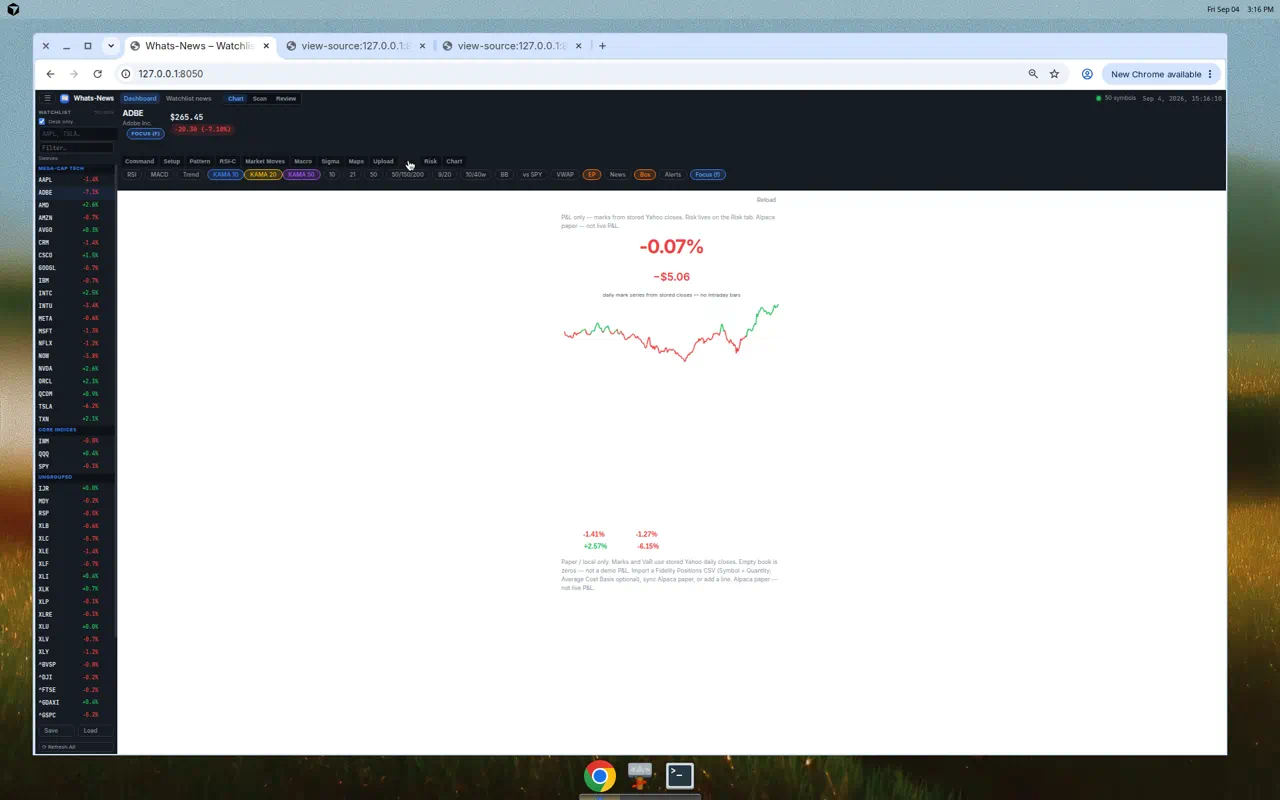
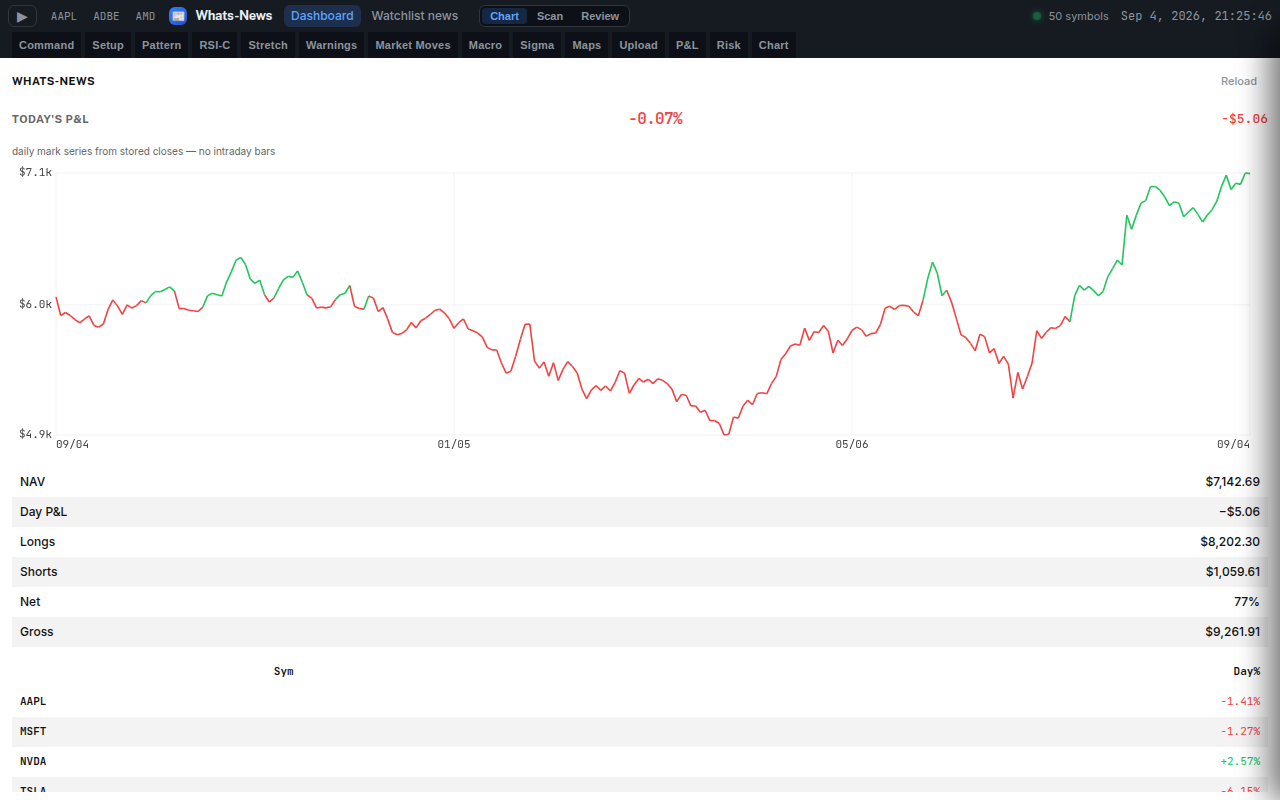
Fill P&L leftover with chart; recapture density shots
Grow the daily-mark canvas to eat leftover height when the tape is
short. Y ticks use stored NAVs nearest min/mid/max. Open Risk
portfolio/perf so the same dead-air pattern is packed with real marks.

diff --git a/scripts/paper_book.js b/scripts/paper_book.js
@@ -67,6 +67,27 @@ function _pnlTickIdx(n) {
     return [...new Set([0, Math.round((n - 1) / 3), Math.round(2 * (n - 1) / 3), n - 1])].sort((a, b) => a - b);
 }
 
+function _pnlYTickIdx(vals) {
+    if (!vals.length) return [];
+    let minI = 0;
+    let maxI = 0;
+    for (let i = 1; i < vals.length; i++) {
+        if (vals[i] < vals[minI]) minI = i;
+        if (vals[i] > vals[maxI]) maxI = i;
+    }
+    const midTarget = (vals[minI] + vals[maxI]) / 2;
+    let midI = 0;
+    let midDist = Math.abs(vals[0] - midTarget);
+    for (let i = 1; i < vals.length; i++) {
+        const d = Math.abs(vals[i] - midTarget);
+        if (d < midDist) {
+            midDist = d;
+            midI = i;
+        }
+    }
+    return [...new Set([maxI, midI, minI])];
+}
+
 function _pnlAxisDate(d) {
     const s = String(d || '');
     const m = s.match(/^(\d{4})-(\d{2})-(\d{2})/);
@@ -78,27 +99,53 @@ function _pnlAxisNav(v) {
     const n = Number(v);
     const abs = Math.abs(n);
     const sign = n < 0 ? '−' : '';
-    if (abs >= 10000) return `${sign}$${(abs / 1000).toFixed(1)}k`;
+    if (abs >= 1000) return `${sign}$${(abs / 1000).toFixed(1)}k`;
     return _pnlMoney(n);
 }
 
+function _fitPnlChart() {
+    const canvas = document.getElementById('pnl-curve');
+    const area = document.getElementById('pnl-area');
+    const wrap = document.querySelector('.pnl-curve-wrap');
+    if (!canvas || !area || !wrap) return;
+    const areaBottom = area.getBoundingClientRect().bottom;
+    const wrapTop = wrap.getBoundingClientRect().top;
+    let below = 0;
+    ['pnl-metrics', 'pnl-tape'].forEach(id => {
+        const el = document.getElementById(id);
+        if (!el) return;
+        const cs = getComputedStyle(el);
+        if (cs.display === 'none') return;
+        below += el.getBoundingClientRect().height;
+    });
+    const label = wrap.querySelector('.pnl-curve-label');
+    const labelH = label ? label.getBoundingClientRect().height + 4 : 0;
+    const h = Math.max(200, Math.floor(areaBottom - wrapTop - below - labelH - 8));
+    const next = `${h}px`;
+    if (canvas.style.height !== next) canvas.style.height = next;
+}
+
 function _drawPnlCurve(points) {
+    window.__lastPnlCurve = points;
     const canvas = document.getElementById('pnl-curve');
     if (!canvas) return;
+    _fitPnlChart();
     const ctx = canvas.getContext('2d');
-    const w = canvas.parentElement ? canvas.parentElement.clientWidth : 360;
+    const wrap = canvas.parentElement;
+    const w = wrap ? wrap.clientWidth : 360;
+    const cssH = canvas.clientHeight || (wrap ? wrap.clientHeight : 200);
     canvas.width = Math.max(280, w);
-    canvas.height = 200;
+    canvas.height = Math.max(200, Math.round(cssH));
     const W = canvas.width;
     const H = canvas.height;
-    const padL = 48;
-    const padR = 8;
+    const padL = 44;
+    const padR = 18;
     const padT = 10;
-    const padB = 20;
+    const padB = 22;
     ctx.clearRect(0, 0, W, H);
     ctx.fillStyle = '#ffffff';
     ctx.fillRect(0, 0, W, H);
-    ctx.font = "10px 'JetBrains Mono', ui-monospace, monospace";
+    ctx.font = "11px 'JetBrains Mono', ui-monospace, monospace";
     if (!points || points.length < 2) {
         ctx.fillStyle = '#666';
         ctx.fillText('No daily mark series — add lines and store Yahoo closes.', padL, H / 2);
@@ -114,19 +161,11 @@ function _drawPnlCurve(points) {
         x: padL + (i / (vals.length - 1)) * plotW,
         y: padT + (1 - (vals[i] - min) / span) * plotH,
     });
-    let minI = 0;
-    let maxI = 0;
-    for (let i = 1; i < vals.length; i++) {
-        if (vals[i] <= vals[minI]) minI = i;
-        if (vals[i] >= vals[maxI]) maxI = i;
-    }
-    const yIdx = new Set([minI, maxI]);
-    if (vals.length >= 3) yIdx.add(Math.floor(vals.length / 2));
     ctx.strokeStyle = '#f3f3f3';
     ctx.lineWidth = 1;
-    ctx.fillStyle = '#666';
+    ctx.fillStyle = '#444';
     ctx.textBaseline = 'middle';
-    yIdx.forEach(i => {
+    _pnlYTickIdx(vals).forEach(i => {
         const p = xy(i);
         ctx.beginPath();
         ctx.moveTo(padL, p.y);
@@ -136,13 +175,14 @@ function _drawPnlCurve(points) {
         ctx.fillText(_pnlAxisNav(vals[i]), padL - 4, p.y);
     });
     ctx.textBaseline = 'top';
-    _pnlTickIdx(points.length).forEach(i => {
+    const xTicks = _pnlTickIdx(points.length);
+    xTicks.forEach((i, t) => {
         const p = xy(i);
         ctx.beginPath();
         ctx.moveTo(p.x, padT);
         ctx.lineTo(p.x, padT + plotH);
         ctx.stroke();
-        ctx.textAlign = 'center';
+        ctx.textAlign = t === 0 ? 'left' : (t === xTicks.length - 1 ? 'right' : 'center');
         ctx.fillText(_pnlAxisDate(points[i].date), p.x, padT + plotH + 4);
     });
     const open = vals[0];
@@ -218,6 +258,9 @@ async function loadPaperPnl() {
         const label = document.getElementById('pnl-curve-label');
         if (label) label.textContent = data.curve_label || '';
         _drawPnlCurve(data.equity_curve || []);
+        requestAnimationFrame(() => {
+            requestAnimationFrame(() => _drawPnlCurve(window.__lastPnlCurve || data.equity_curve || []));
+        });
         if (note) note.textContent = data.message || data.note || '';
     } catch (err) {
         if (note) note.textContent = err.message || 'P&L unavailable';
@@ -500,6 +543,12 @@ function bindPaperBook() {
 }
 
 document.addEventListener('DOMContentLoaded', bindPaperBook);
+window.addEventListener('resize', () => {
+    const area = document.getElementById('pnl-area');
+    if (area && area.style.display !== 'none' && window.__lastPnlCurve) {
+        _drawPnlCurve(window.__lastPnlCurve);
+    }
+});
 window.showPnlArea = showPnlArea;
 window.showBookArea = showBookArea;
 window.showRiskArea = showRiskArea;
@@ -507,3 +556,4 @@ window.hideBookAreas = hideBookAreas;
 window.loadPaperPnl = loadPaperPnl;
 window.loadPaperBook = loadPaperBook;
 window.loadPaperRisk = loadPaperRisk;
+window._drawPnlCurve = _drawPnlCurve;

diff --git a/mobile/lib/ui/book_page.dart b/mobile/lib/ui/book_page.dart
@@ -63,13 +63,13 @@ class BookPage extends StatelessWidget {
         else if (state.bookPane == 'risk')
           ..._riskSlivers(state, pnl)
         else
-          ..._pnlSlivers(state, pnl),
+          ..._pnlSlivers(context, state, pnl),
         SliverToBoxAdapter(child: SizedBox(height: DeskSpace.bottomInset(context))),
       ],
     );
   }
 
-  List<Widget> _pnlSlivers(WhatsNewsState s, BookPnl pnl) {
+  List<Widget> _pnlSlivers(BuildContext context, WhatsNewsState s, BookPnl pnl) {
     Color tone(double? v) {
       if (v == null) return DeskColors.muted;
       if (v > 0) return DeskColors.green;
@@ -95,6 +95,15 @@ class BookPage extends StatelessWidget {
       ('Shorts', pnl.ready ? usd(pnl.shortMv) : '—'),
       ('Net', pnl.ready ? netPct : '—'),
     ];
+    final reserved = DeskSpace.chrome
+        + DeskSpace.headerContent
+        + DeskSpace.row
+        + DeskSpace.section * 3
+        + 12
+        + DeskSpace.row * (exp.length + (pnl.tape.isEmpty ? 1 : pnl.tape.length))
+        + DeskSpace.bottomInset(context)
+        + 56;
+    final chartH = (MediaQuery.sizeOf(context).height - reserved).clamp(208.0, 420.0);
 
     return [
       SliverToBoxAdapter(
@@ -146,7 +155,7 @@ class BookPage extends StatelessWidget {
               ),
               const SizedBox(height: DeskSpace.section),
               SizedBox(
-                height: 208,
+                height: chartH,
                 width: double.infinity,
                 child: CustomPaint(
                   painter: _PnlCurvePainter(pnl.curve),
@@ -662,7 +671,7 @@ class _PnlCurvePainter extends CustomPainter {
   static String _navTick(double v) {
     final abs = v.abs();
     final sign = v < 0 ? '−' : '';
-    if (abs >= 10000) return '$sign\$${(abs / 1000).toStringAsFixed(1)}k';
+    if (abs >= 1000) return '$sign\$${(abs / 1000).toStringAsFixed(1)}k';
     return '$sign\$${abs.toStringAsFixed(2)}';
   }
 
@@ -672,11 +681,32 @@ class _PnlCurvePainter extends CustomPainter {
     return {0, ((n - 1) / 3).round(), (2 * (n - 1) / 3).round(), n - 1}.toList()..sort();
   }
 
+  static List<int> _yTickIdx(List<double> vals) {
+    if (vals.isEmpty) return const [];
+    var minI = 0;
+    var maxI = 0;
+    for (var i = 1; i < vals.length; i++) {
+      if (vals[i] < vals[minI]) minI = i;
+      if (vals[i] > vals[maxI]) maxI = i;
+    }
+    final midTarget = (vals[minI] + vals[maxI]) / 2;
+    var midI = 0;
+    var midDist = (vals[0] - midTarget).abs();
+    for (var i = 1; i < vals.length; i++) {
+      final d = (vals[i] - midTarget).abs();
+      if (d < midDist) {
+        midDist = d;
+        midI = i;
+      }
+    }
+    return {maxI, midI, minI}.toList();
+  }
+
   void _label(Canvas canvas, String text, Offset at, {TextAlign align = TextAlign.left}) {
     final tp = TextPainter(
       text: TextSpan(
         text: text,
-        style: const TextStyle(color: DeskColors.muted, fontSize: 9, fontFamily: 'Courier', height: 1),
+        style: const TextStyle(color: DeskColors.muted, fontSize: 11, fontFamily: 'Courier', height: 1),
       ),
       textDirection: TextDirection.ltr,
       textAlign: align,
@@ -721,14 +751,7 @@ class _PnlCurvePainter extends CustomPainter {
       ..color = DeskColors.card
       ..strokeWidth = 1;
 
-    var minI = 0;
-    var maxI = 0;
-    for (var i = 1; i < vals.length; i++) {
-      if (vals[i] <= vals[minI]) minI = i;
-      if (vals[i] >= vals[maxI]) maxI = i;
-    }
-    final yIdx = {minI, maxI, if (vals.length >= 3) vals.length ~/ 2};
-    for (final i in yIdx) {
+    for (final i in _yTickIdx(vals)) {
       final p = pt(i);
       canvas.drawLine(Offset(left, p.dy), Offset(left + plotW, p.dy), grid);
       _label(canvas, _navTick(vals[i]), Offset(left - 4, p.dy - 5), align: TextAlign.right);

diff --git a/styles/theme.css b/styles/theme.css
@@ -850,7 +850,10 @@ body.board-focus .risk-container {
   text-align: left;
 }
 .pnl-curve-wrap {
-  flex: 0 0 auto;
+  flex: 1 1 auto !important;
+  min-height: 200px;
+  display: flex;
+  flex-direction: column;
   margin: 0;
   padding: 0;
 }
@@ -860,10 +863,13 @@ body.board-focus .risk-container {
   color: #666;
   margin: 0 0 4px;
   text-align: left;
+  flex: 0 0 auto;
 }
 #pnl-curve {
+  flex: 1 1 auto;
   width: 100%;
-  height: 200px;
+  min-height: 200px;
+  height: 100%;
   background: #fff !important;
   display: block;
 }
@@ -889,8 +895,8 @@ body.board-focus .risk-container {
 .pnl-container .pnl-exp-row:nth-child(even) { background: var(--zebra); }
 .pnl-container .pnl-exp-row:first-child { border: none !important; }
 #pnl-tape {
-  flex: 1 1 auto;
-  min-height: 0;
+  flex: 0 1 auto;
+  max-height: 42%;
   overflow: auto;
   padding: 0 !important;
   gap: 0 !important;
@@ -904,7 +910,7 @@ body.board-focus .risk-container {
 #pnl-tape .wn-table .num,
 .wn-table .num { text-align: right; font-variant-numeric: tabular-nums; }
 #pnl-tape .wn-table tbody tr { cursor: pointer; }
-#pnl-note { margin: 0 !important; }
+#pnl-note { display: none !important; }
 
 @media (max-width: 980px) {
   .v2-split, .v2-three { grid-template-columns: 1fr; }

diff --git a/index.html b/index.html
@@ -6,7 +6,7 @@
   <title>Whats-News – Watchlist Dashboard</title>
   <meta name="description" content="Whats-News: local watchlist dashboard with Yahoo Finance charts, analysis, and real headlines." />
   <link rel="stylesheet" href="styles/main.css" />
-  <link rel="stylesheet" href="styles/theme.css?v=54" />
+  <link rel="stylesheet" href="styles/theme.css?v=55" />
   <!-- TradingView Lightweight Charts -->
   <script src="https://unpkg.com/lightweight-charts@4.1.3/dist/lightweight-charts.standalone.production.js"></script>
   <!-- Chart.js for statistics -->
@@ -1538,7 +1538,7 @@
       <h3 class="risk-spec-title">Clusters</h3>
       <div id="risk-clusters" class="pnl-exposure" aria-label="Clusters"></div>
       <div id="risk-var" class="pnl-var"></div>
-      <details class="scan-help risk-more">
+      <details class="scan-help risk-more" open>
         <summary>Portfolio / perf</summary>
         <div id="risk-portfolio" class="pnl-exposure" role="table" aria-label="Portfolio risk"></div>
         <div id="risk-perf" class="pnl-exposure" aria-label="Performance"></div>

diff --git a/tests/test_desk_density.py b/tests/test_desk_density.py
@@ -98,10 +98,12 @@ class DeskDensityTests(unittest.TestCase):
         js = Path("scripts/paper_book.js").read_text(encoding="utf-8")
         dart = Path("mobile/lib/ui/book_page.dart").read_text(encoding="utf-8")
         self.assertIn("function _pnlTickIdx", js)
+        self.assertIn("function _fitPnlChart", js)
+        self.assertIn("function _pnlYTickIdx", js)
         self.assertIn("_pnlAxisDate", js)
         self.assertIn("_pnlAxisNav", js)
         self.assertIn("points[i].date", js)
-        self.assertIn("canvas.height = 200", js)
+        self.assertIn("canvas.height = Math.max(200", js)
         self.assertIn('th class="num">Day%', js)
         self.assertIn("_PnlCurvePainter", dart)
         self.assertIn("_dateTick", dart)
@@ -188,6 +190,7 @@ class DeskDensityTests(unittest.TestCase):
             "watchlist_after_open.png",
             "book_upload.png",
             "book_pnl.png",
+            "book_pnl_iphone.png",
             "book_risk.png",
             "pattern_dw.png",
             "rsic_counter.png",

diff --git a/docs/screenshots/density/README.md b/docs/screenshots/density/README.md
@@ -6,7 +6,8 @@ Watchlist before/after plus Book Upload | P&L | Risk.
 - [watchlist_after.png](watchlist_after.png) — default collapsed + 2–3 peek; 24px rows when open
 - [watchlist_after_open.png](watchlist_after_open.png) — dense open rail
 - [book_upload.png](book_upload.png) — Fidelity CSV import only
-- [book_pnl.png](book_pnl.png) — marks / day / exposure
+- [book_pnl.png](book_pnl.png) — packed P&L: axes from stored daily marks, exposure + day% rows
+- [book_pnl_iphone.png](book_pnl_iphone.png) — same board at 390×844; chart fills leftover, no dead-air strip
 - [book_risk.png](book_risk.png) — Risk hero: ranked %VaR / MVaR / clusters at top
 - [scans_dense.png](scans_dense.png) — help wall collapsed; chip row tight; no Empty universe when stored_n>0
 - [pattern_dw.png](pattern_dw.png) — Pattern D/W Excel boards; empty buckets omitted
